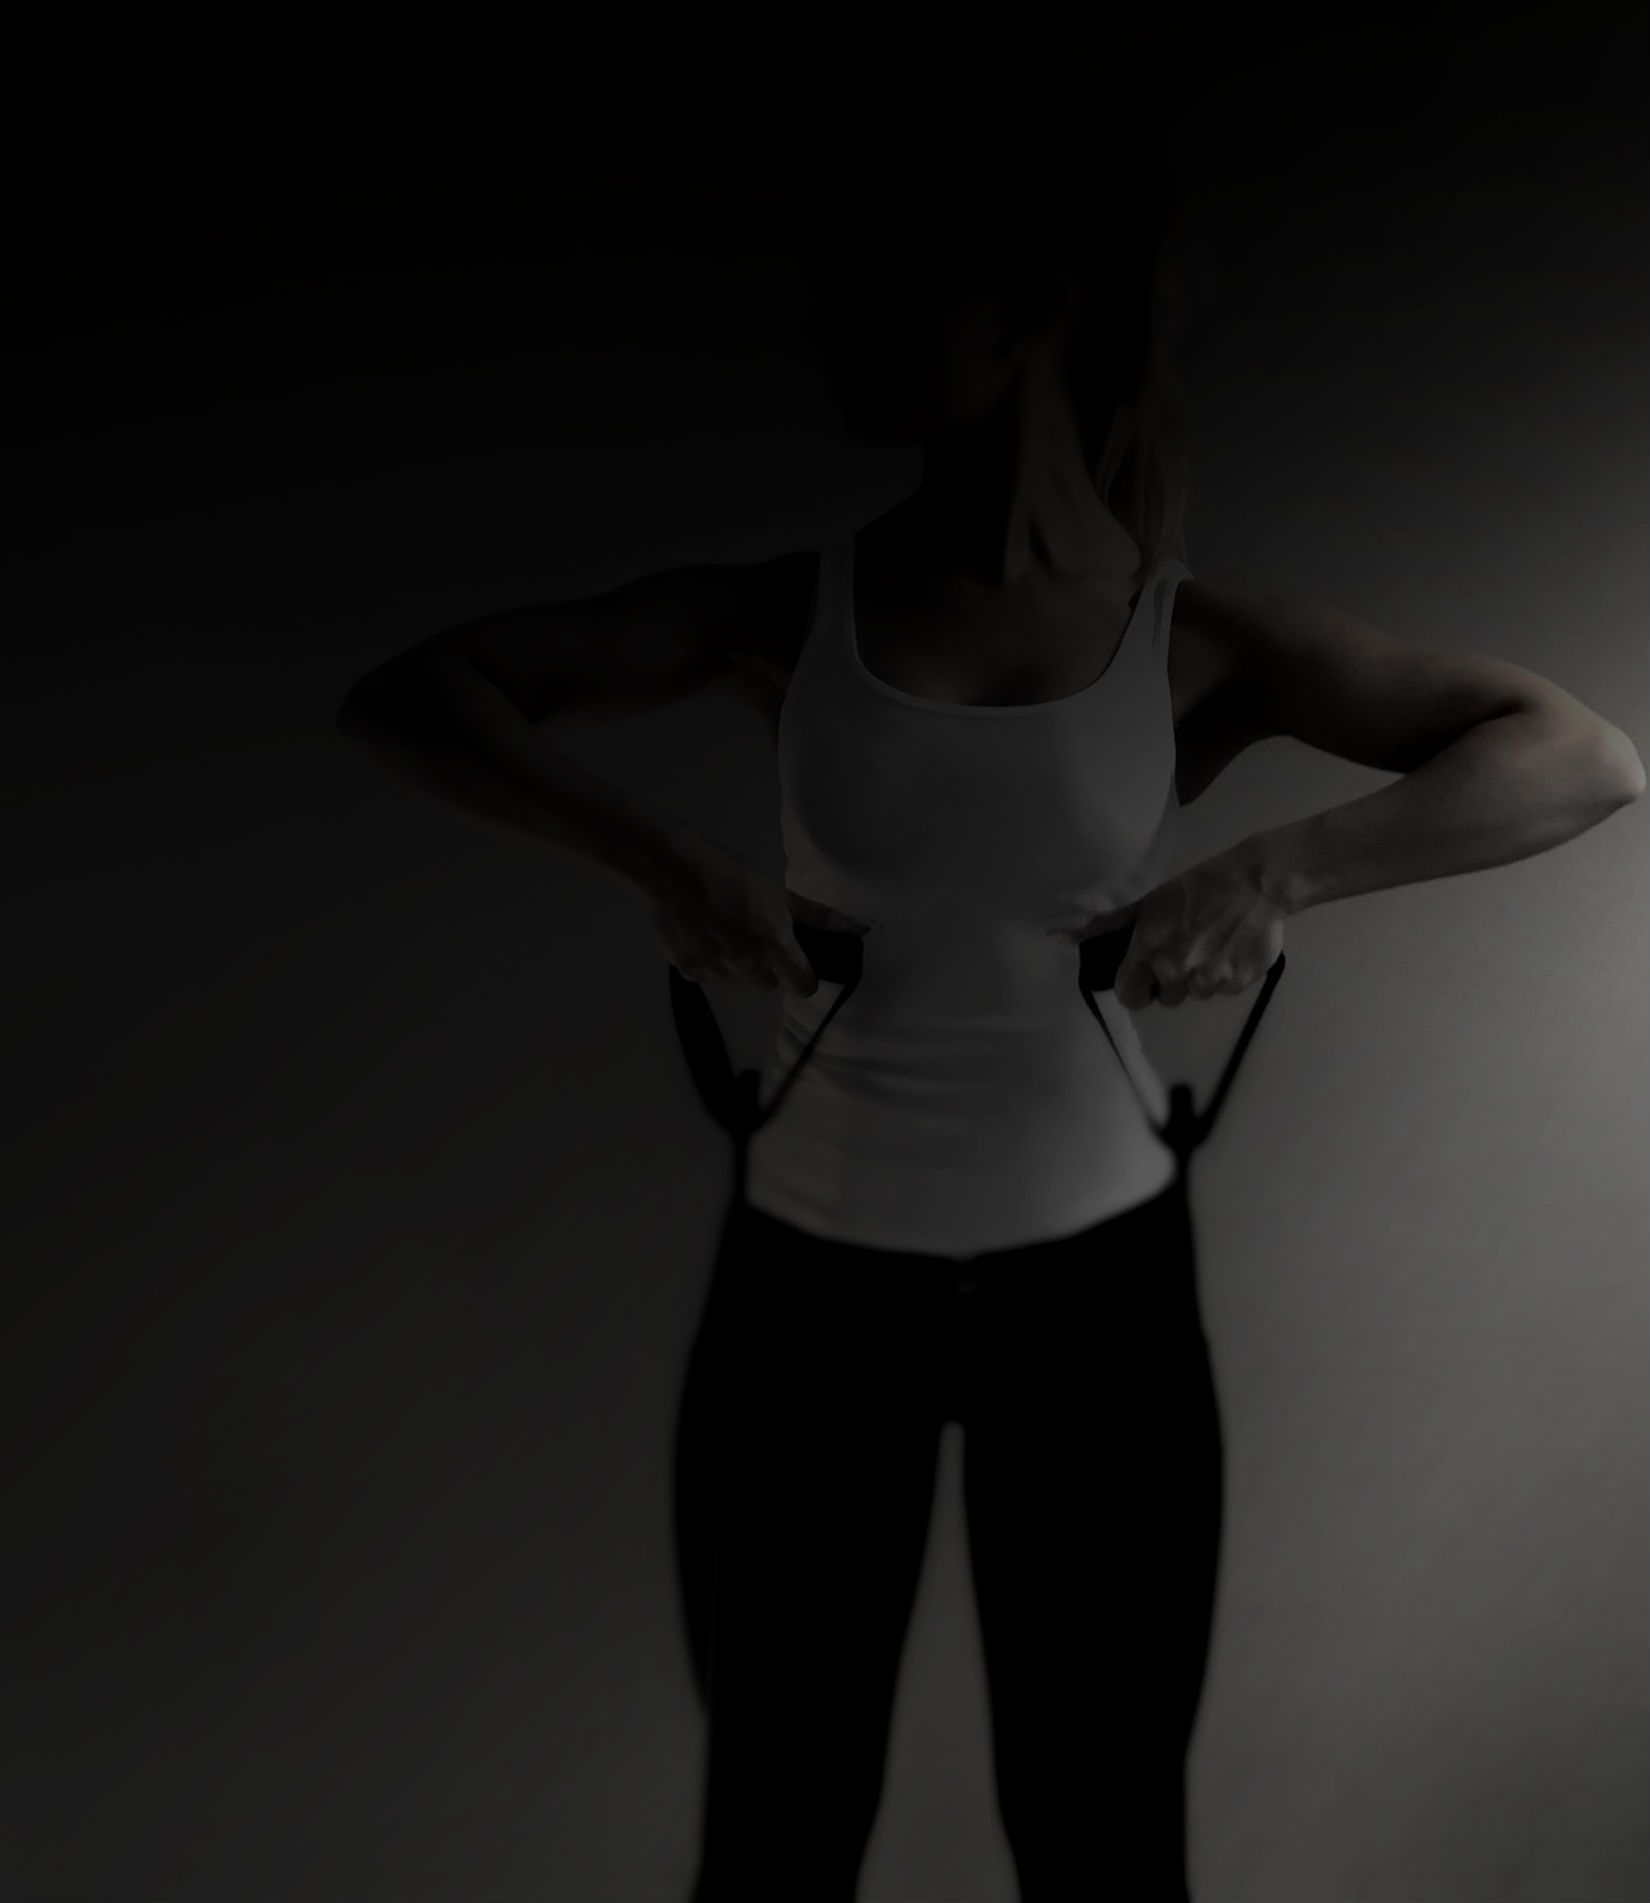
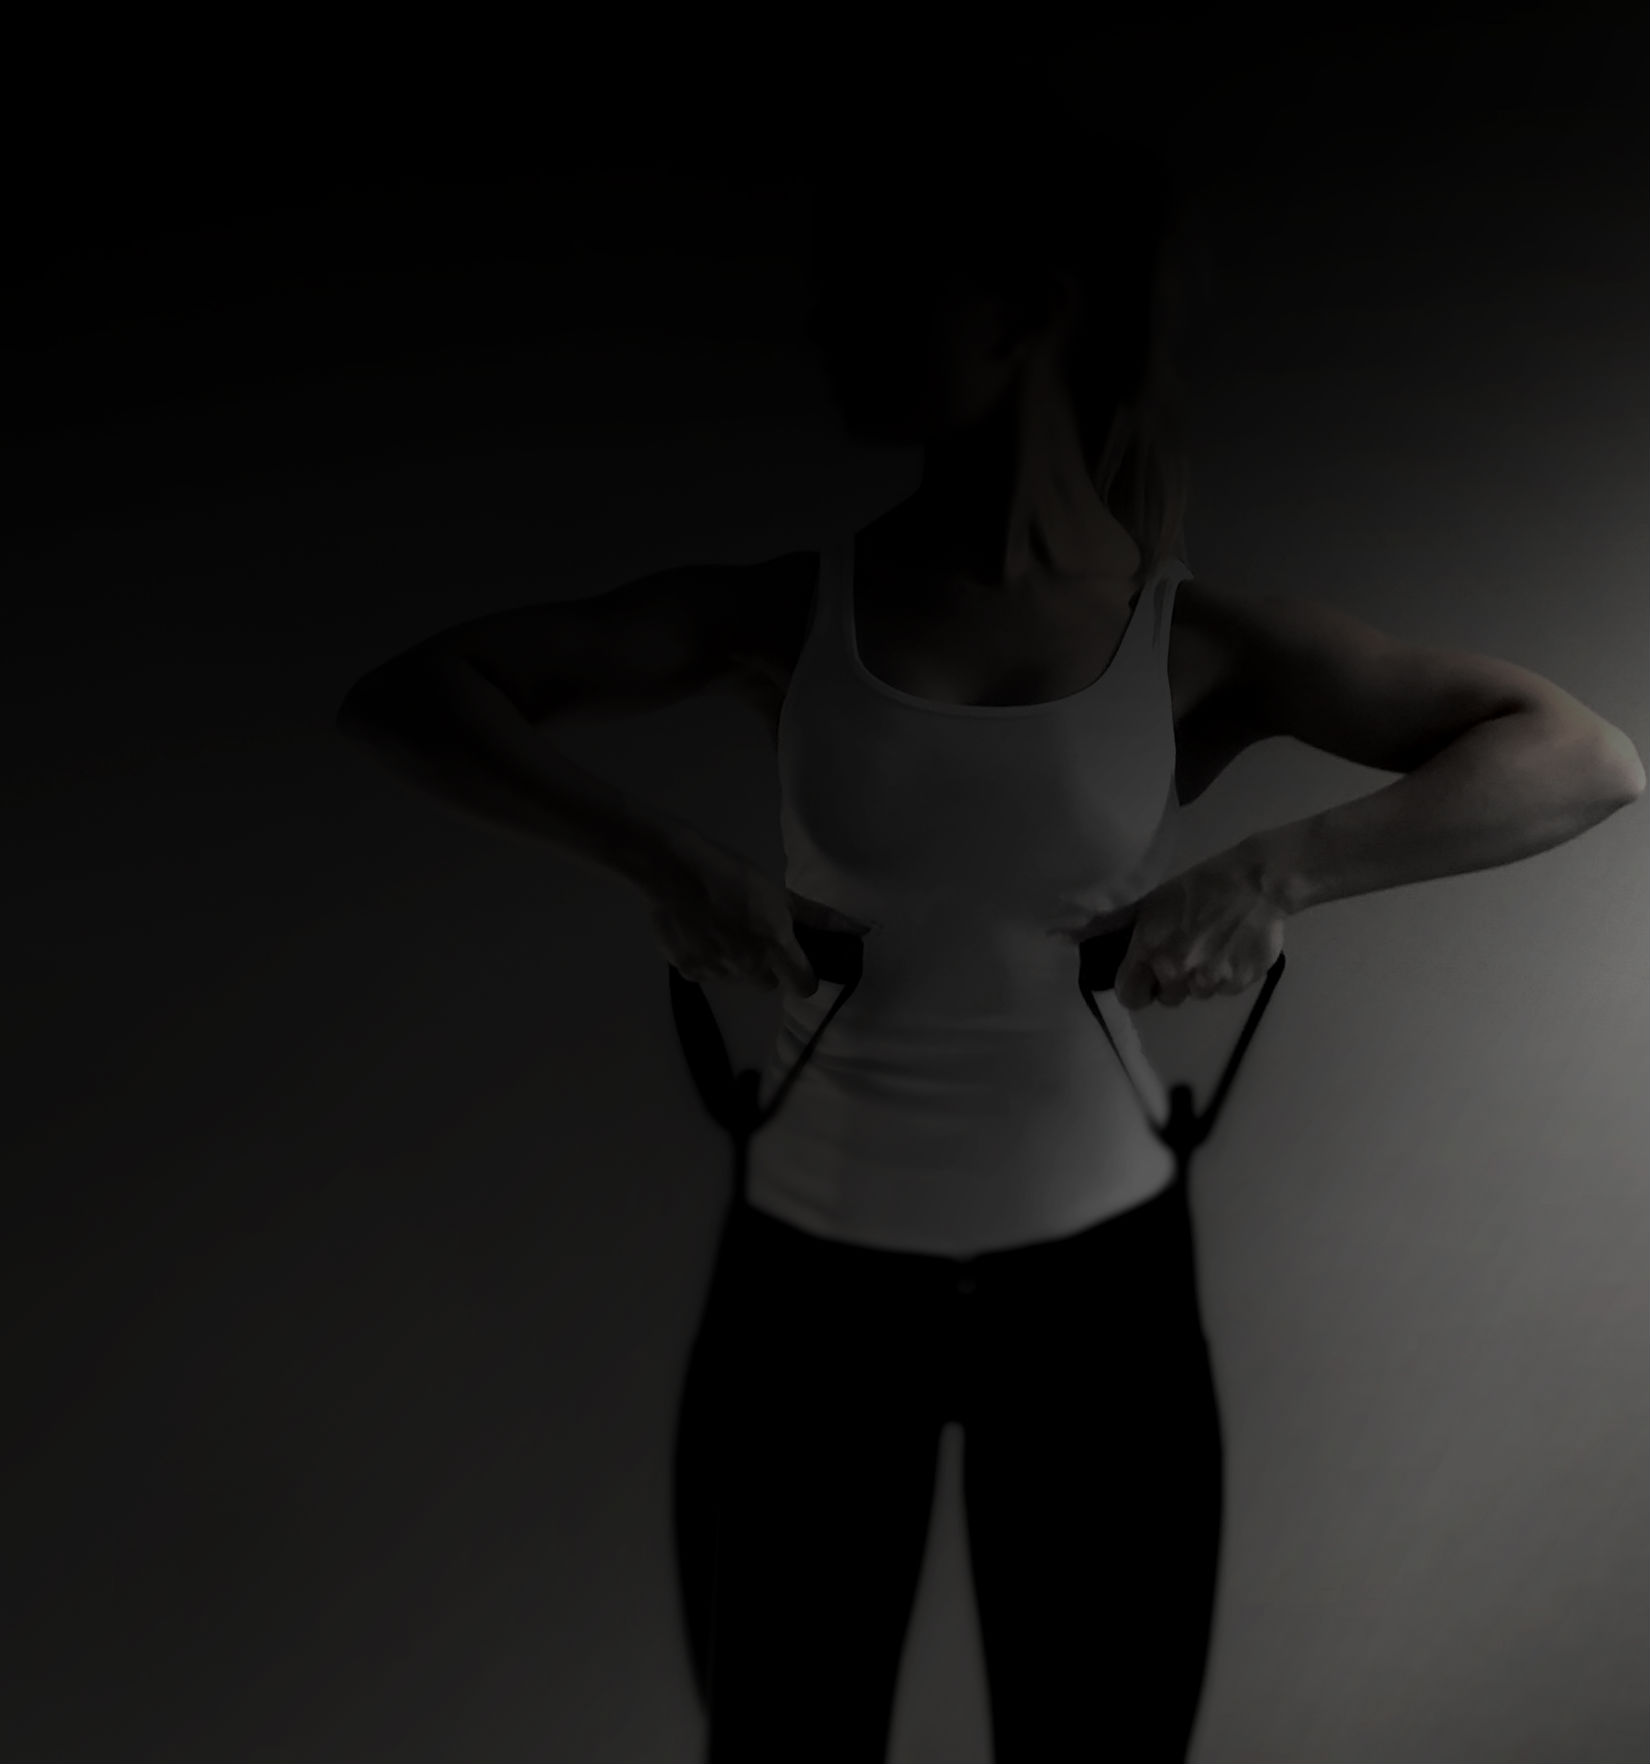
larger sidemenu image

diff --git a/templates/menu.html b/templates/menu.html
@@ -14,7 +14,7 @@
     <ion-nav-view name="menuContent" animation="slide-left-right"></ion-nav-view>
   </ion-pane>
 
-  <ion-side-menu side="left" style="background:#000 url(img/loadman/new_dark.jpg) no-repeat 50% 100%; background-size: 100% auto;">
+  <ion-side-menu side="left" style="background:#000 url(img/loadman/new_dark.jpg) no-repeat 50% 100%; background-size: 150% auto;">
     <header class="bar bar-header bar-dark" style="background:#000">
       <h1 class="title"><img src="img/treenit100.png" style="width:40px;float:left;margin-bottom:-3px;" alt="" /> Valikko</h1>
     </header>
